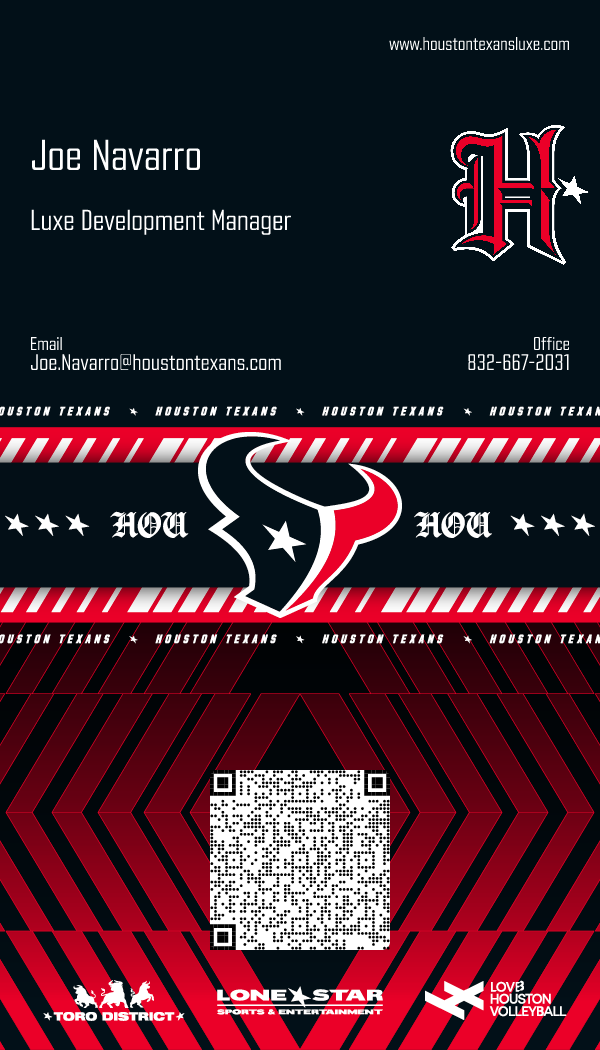
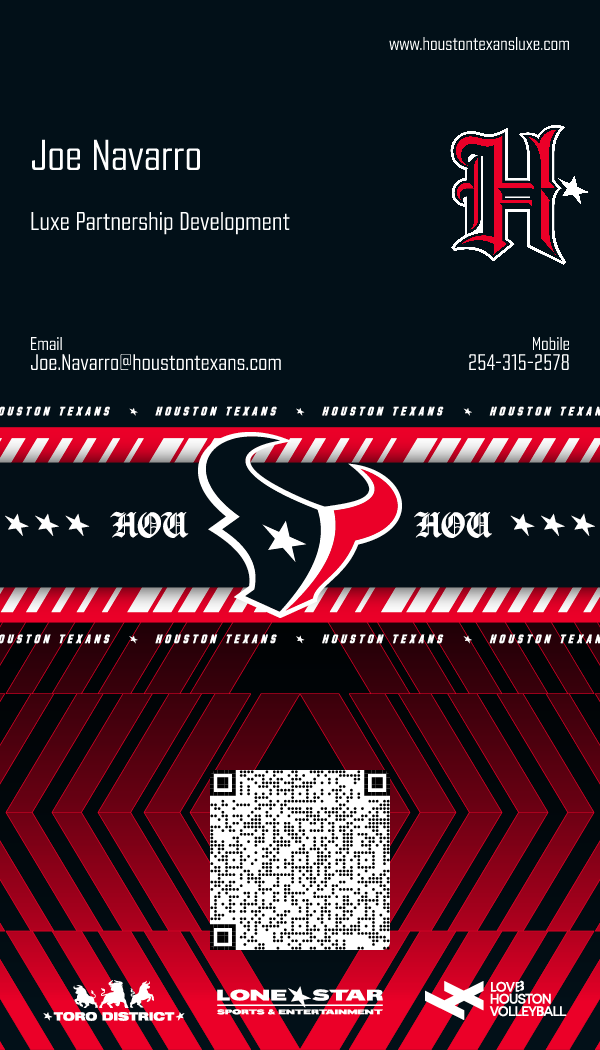
Add business card for Joe Navarro

Changed region(s): [[0.06, 0.1829, 0.48, 0.2438], [0.78, 0.3048, 0.96, 0.3657]]

diff --git a/p/93a69e96.html b/p/93a69e96.html
@@ -4,9 +4,9 @@
   <meta charset="UTF-8">
   <meta name="viewport" content="width=device-width, initial-scale=1.0">
   <title>Joe Navarro — Houston Texans</title>
-  <meta name="description" content="Contact Joe Navarro, Luxe Development Manager at Houston Texans">
+  <meta name="description" content="Contact Joe Navarro, Luxe Partnership Development at Houston Texans">
   <meta property="og:title" content="Joe Navarro — Houston Texans">
-  <meta property="og:description" content="Luxe Development Manager">
+  <meta property="og:description" content="Luxe Partnership Development">
   <link rel="preconnect" href="https://fonts.googleapis.com">
   <link href="https://fonts.googleapis.com/css2?family=Inter:wght@400;500;600;700&display=swap" rel="stylesheet">
   <!-- GA4 -->
@@ -61,7 +61,7 @@
   <div class="hero">
     <div class="hero-img"><img src="https://raw.githubusercontent.com/TexansDigital/texans-business-cards/main/Houston%20Texans%20Logo%20RGB_BULLHEAD%20FC.png" alt="" style="height:64px;object-fit:contain;"></div>
     <h1>Joe Navarro</h1>
-    <p class="sub">Luxe Development Manager</p>
+    <p class="sub">Luxe Partnership Development</p>
     <span class="org">Houston Texans</span>
   </div>
   <div class="ct">
@@ -76,11 +76,17 @@
         </div>
         <div><div class="l">Email</div><div class="v">Joe.Navarro@houstontexans.com</div></div>
       </a>
-      <a href="tel:+18326672031" class="cr" onclick="tr('click_phone')">
+      <a href="tel:+12543152578" class="cr" onclick="tr('click_phone')">
         <div class="ci">
           <svg xmlns="http://www.w3.org/2000/svg" fill="none" viewBox="0 0 24 24" stroke-width="1.5" stroke="currentColor"><path stroke-linecap="round" stroke-linejoin="round" d="M2.25 6.75c0 8.284 6.716 15 15 15h2.25a2.25 2.25 0 002.25-2.25v-1.372c0-.516-.351-.966-.852-1.091l-4.423-1.106c-.44-.11-.902.055-1.173.417l-.97 1.293c-.282.376-.769.542-1.21.38a12.035 12.035 0 01-7.143-7.143c-.162-.441.004-.928.38-1.21l1.293-.97c.363-.271.527-.734.417-1.173L6.963 3.102a1.125 1.125 0 00-1.091-.852H4.5A2.25 2.25 0 002.25 4.5v2.25z"/></svg>
         </div>
-        <div><div class="l">Office</div><div class="v">832-667-2031</div></div>
+        <div><div class="l">Mobile</div><div class="v">254-315-2578</div></div>
+      </a>
+      <a href="https://www.linkedin.com/in/joenavarro1/" class="cr" target="_blank" onclick="tr('click_linkedin')">
+        <div class="ci">
+          <svg xmlns="http://www.w3.org/2000/svg" width="18" height="18" viewBox="0 0 24 24" fill="currentColor" style="color:#021018"><path d="M20.447 20.452h-3.554v-5.569c0-1.328-.027-3.037-1.852-3.037-1.853 0-2.136 1.445-2.136 2.939v5.667H9.351V9h3.414v1.561h.046c.477-.9 1.637-1.85 3.37-1.85 3.601 0 4.267 2.37 4.267 5.455v6.286zM5.337 7.433a2.062 2.062 0 01-2.063-2.065 2.064 2.064 0 112.063 2.065zm1.782 13.019H3.555V9h3.564v11.452zM22.225 0H1.771C.792 0 0 .774 0 1.729v20.542C0 23.227.792 24 1.771 24h20.451C23.2 24 24 23.227 24 22.271V1.729C24 .774 23.2 0 22.222 0h.003z"/></svg>
+        </div>
+        <div><div class="l">LinkedIn</div><div class="v">View profile</div></div>
       </a>
     </div>
     <div style="display:flex;flex-direction:column;gap:10px;margin-bottom:24px;">
@@ -99,7 +105,7 @@
   <script>
   function saveContact(){
     tr('save_contact');
[2 lines of base64/hex data omitted]
     var b=new Blob([vc],{type:'text/vcard;charset=utf-8'});
     var u=URL.createObjectURL(b);
     var a=document.createElement('a');
